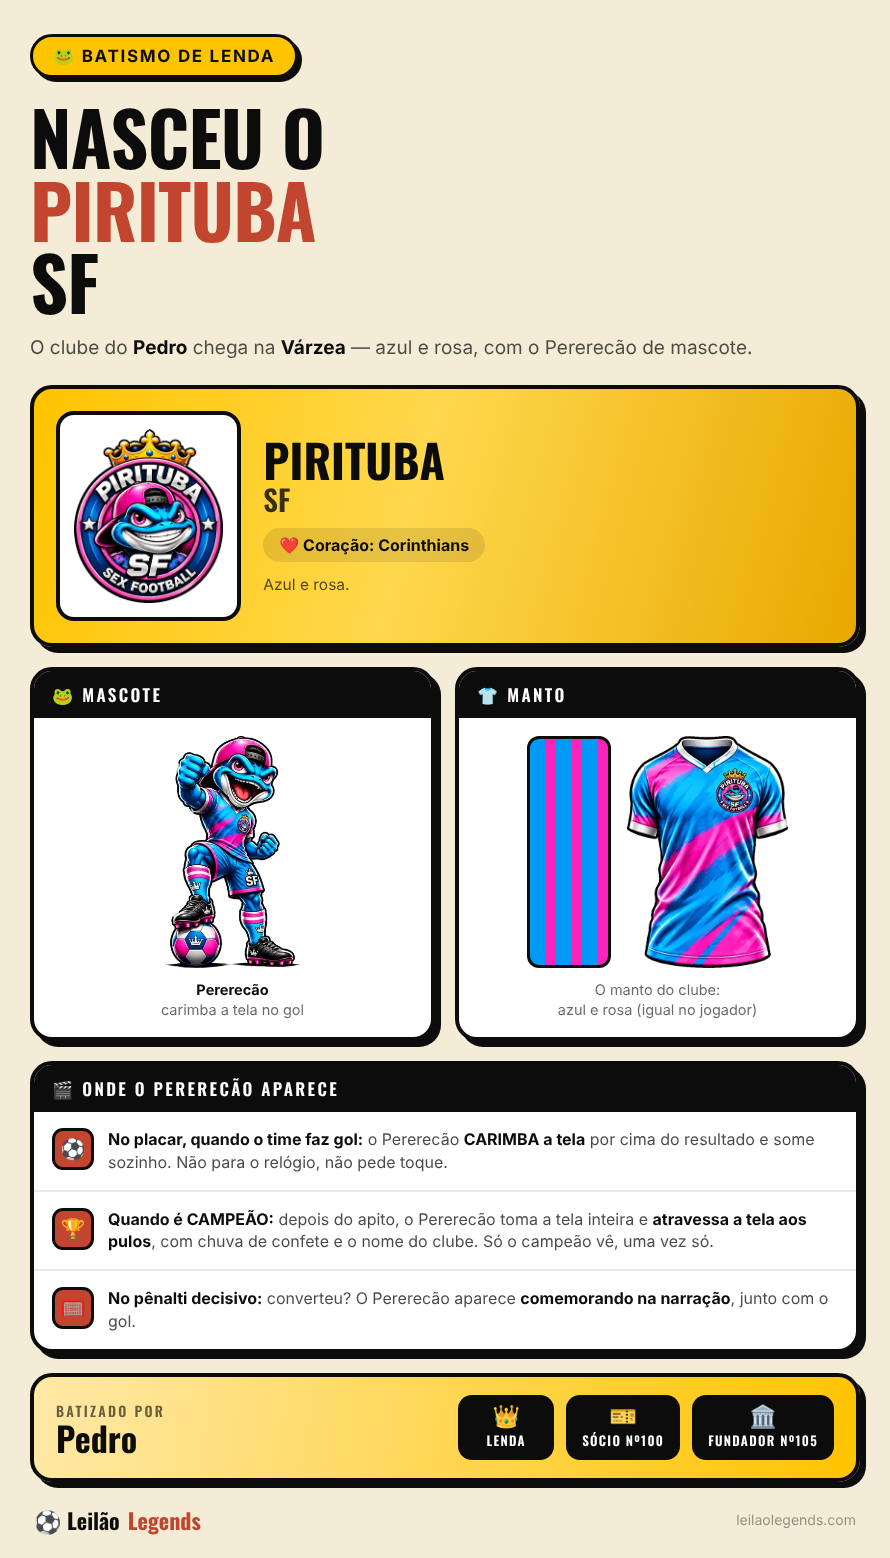
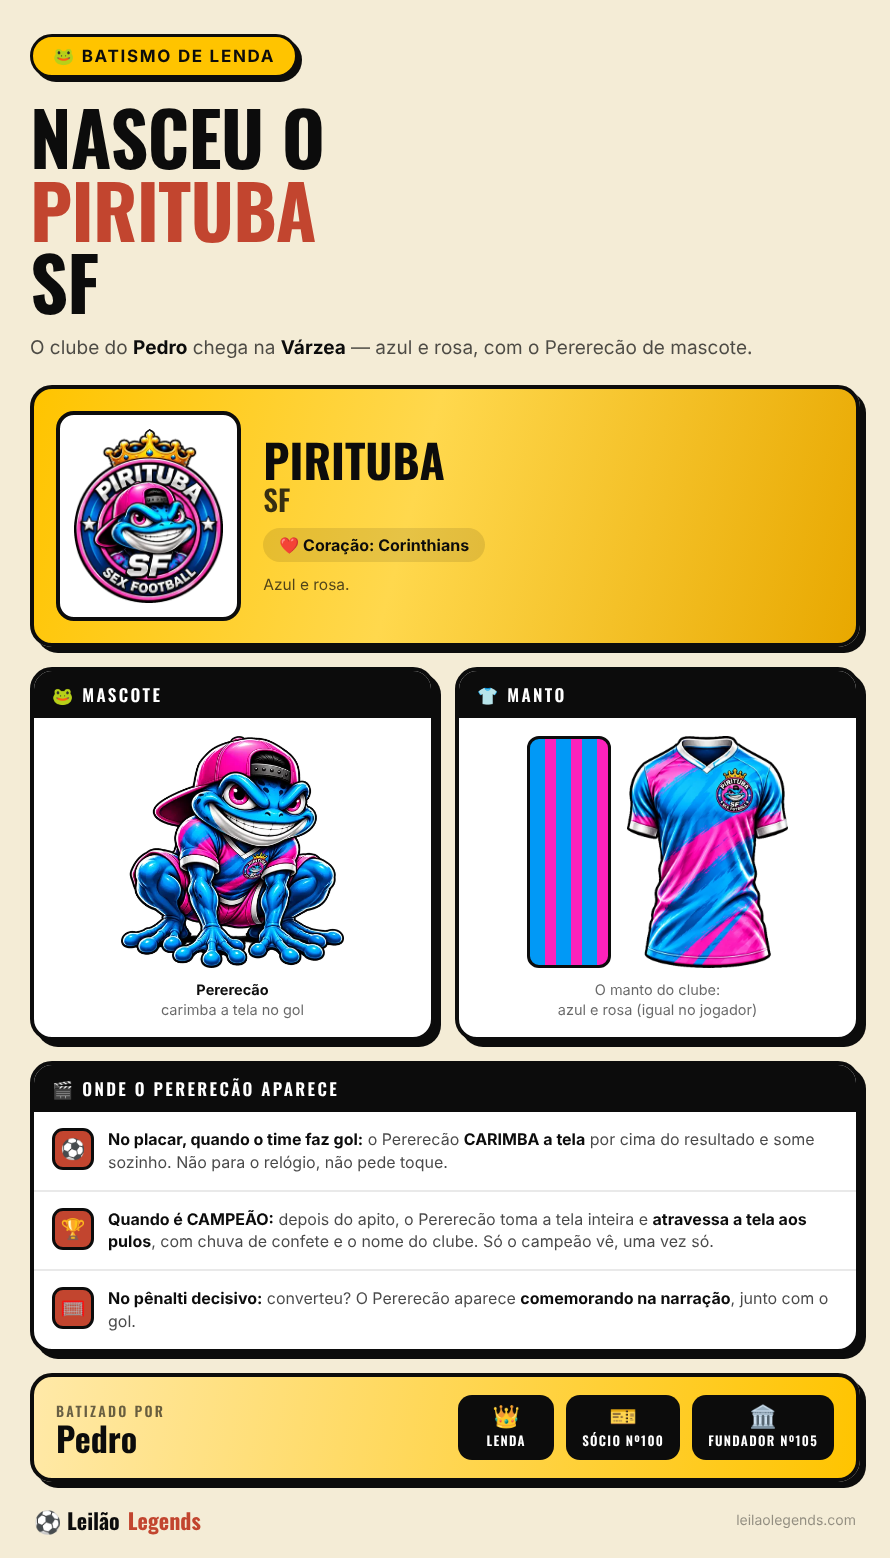
Pirituba SF: mascote Pererecão trocado pela arte nova do dono, agachado na pose de sapo (424×440, 44 KB); gala e post refeitos com ele
Claude-Session: https://claude.ai/code/session_018Ap1zPCMVL9XeZJN3u93ZA

Changed region(s): [[0.1213, 0.4621, 0.3944, 0.647]]

diff --git a/src/escalacao/gala-pirituba.tsx b/src/escalacao/gala-pirituba.tsx
@@ -1,10 +1,10 @@
 // ─── 🐸👑 ENTRADA ÚNICA DO PIRITUBA SF: "O PULO DO PERERECÃO" ──────────────────────────────────────────────────────
 //
 // Pedido do Diego (23/11, batismo FUNDADOR do pedrosilveira0810): *"faça entrada de gala… e me mande vídeo também do sapo
-// pulando"*. A mascote (arte do dono) é o Pererecão: sapo azul de boné rosa virado, punho pra frente, pé em cima da bola.
+// pulando"*. A mascote (arte do dono) é o Pererecão: sapo azul de boné rosa virado, agachado na pose de sapo (troca de 23/11).
 // 1) noite de Pirituba em neon azul e rosa; legenda "DIRETO DE PIRITUBA"
-// 2) o Pererecão atravessa a tela em 3 PULOS de vitória-régia em vitória-régia (estica no ar, amassa no pouso, 💦 "PLOFT!")
-// 3) o 4º pulo é o grandão: ele cai em cima da bola — estalo 💥, flash, a tela treme
+// 2) o Pererecão (agachado na pose de sapo) atravessa a tela em 3 PULOS de vitória-régia em vitória-régia (estica no ar, amassa no pouso, 💦 "PLOFT!")
+// 3) o 4º pulo é o grandão: ele cai de quatro no meio da tela — estalo 💥, flash, a tela treme
 // 4) as faixas DIAGONAIS azul e rosa da camisa varrem a tela (a camisa do dono é pincelada na diagonal)
 // 5) o escudo (que já tem a coroa) acende com os raios azul e rosa girando atrás; o Pererecão vai pro canto, ainda quicando
 // 6) o grito que está na própria arte do dono — PERERECÃO CHEGOU / PRA GANHAR NA RAÇA — e a faixa "CHEGOU NA SALA · PERERECÃO"
@@ -15,19 +15,19 @@ import { createPortal } from 'react-dom'
 import { Escudo } from './escudos'
 import { tr } from './lang'
 import { playMp3Gala } from './sound'
-import sapoImg from './img/pirituba-mascote.webp' // 256×440, o Pererecão de pé em cima da bola
+import sapoImg from './img/pirituba-mascote.webp' // 424×440, o Pererecão agachado na pose de sapo
 
 export const PIRITUBA_MS = 8800
 const T = PIRITUBA_MS
 const pct = (ms: number) => (ms / T * 100).toFixed(1) + '%'
 const AZUL = '#0199F6', ROSA = '#FC22BC'
-const SW = 150, SH = Math.round(SW * 440 / 256) // o sapo no palco (258 de altura)
+const SW = 200, SH = Math.round(SW * 440 / 424) // o sapo no palco, agachado (≈208 de altura)
 const CHAO = 600 // linha do pouso (pé do sapo)
 // os 3 pulos: [x de saída, x de chegada, início ms] — cada pulo leva PULO ms
 const PULO = 520
-const PULOS: [number, number, number][] = [[-170, 20, 1100], [20, 140, 1700], [140, 260, 2300]]
-const GRANDE = 2950, POUSO = GRANDE + 650 // o 4º pulo, alto, caindo no meio em cima da bola
-const XF = 135 // x final do sapo (centro do palco: 210 - SW/2)
+const PULOS: [number, number, number][] = [[-220, -10, 1100], [-10, 105, 1700], [105, 220, 2300]]
+const GRANDE = 2950, POUSO = GRANDE + 650 // o 4º pulo, alto, caindo de quatro no meio da tela
+const XF = 110 // x final do sapo (centro do palco: 210 - SW/2)
 
 function keyframesSapo(): string {
   const fr: string[] = [`0%{opacity:0;transform:translate(${PULOS[0][0]}px,0) scale(1,1)}`, `${pct(PULOS[0][2] - 1)}{opacity:0;transform:translate(${PULOS[0][0]}px,0)}`]

diff --git a/src/escalacao/mascotes.tsx b/src/escalacao/mascotes.tsx
@@ -495,10 +495,10 @@ export const MASCOTES: Record<string, ReactNode> = {
   tunaldo_craque: (
     <img src={tunaldoMascoteImg} height={176} width={Math.round(176 * 196 / 440)} alt="O Craque Tunaldo — Tunaldo FC" style={{ flex: 'none', display: 'block', objectFit: 'contain' }} />
   ),
-  // 🐸👑 O PERERECÃO (mascote do Pirituba SF — pedrosilveira0810, Fundador de 23/11): o sapo azul de boné rosa virado, punho pra
-  // frente, pé em cima da bola, com o uniforme azul e rosa. Arte do próprio dono. 📏 256×440, 40 KB — altura 176. mascote_key = "pirituba_pererecao".
+  // 🐸👑 O PERERECÃO (mascote do Pirituba SF — pedrosilveira0810, Fundador de 23/11): o sapo azul de boné rosa virado, agachado na
+  // POSE DE SAPO (pedido do Diego, 23/11), com a camisa e o calção azul e rosa. Arte do próprio dono. 📏 424×440, 44 KB — altura 176. mascote_key = "pirituba_pererecao".
   pirituba_pererecao: (
-    <img src={piritubaMascoteImg} height={176} width={Math.round(176 * 256 / 440)} alt="Pererecão — Pirituba SF" style={{ flex: 'none', display: 'block', objectFit: 'contain' }} />
+    <img src={piritubaMascoteImg} height={176} width={Math.round(176 * 424 / 440)} alt="Pererecão — Pirituba SF" style={{ flex: 'none', display: 'block', objectFit: 'contain' }} />
   ),
 
   cearasp_rei: (
